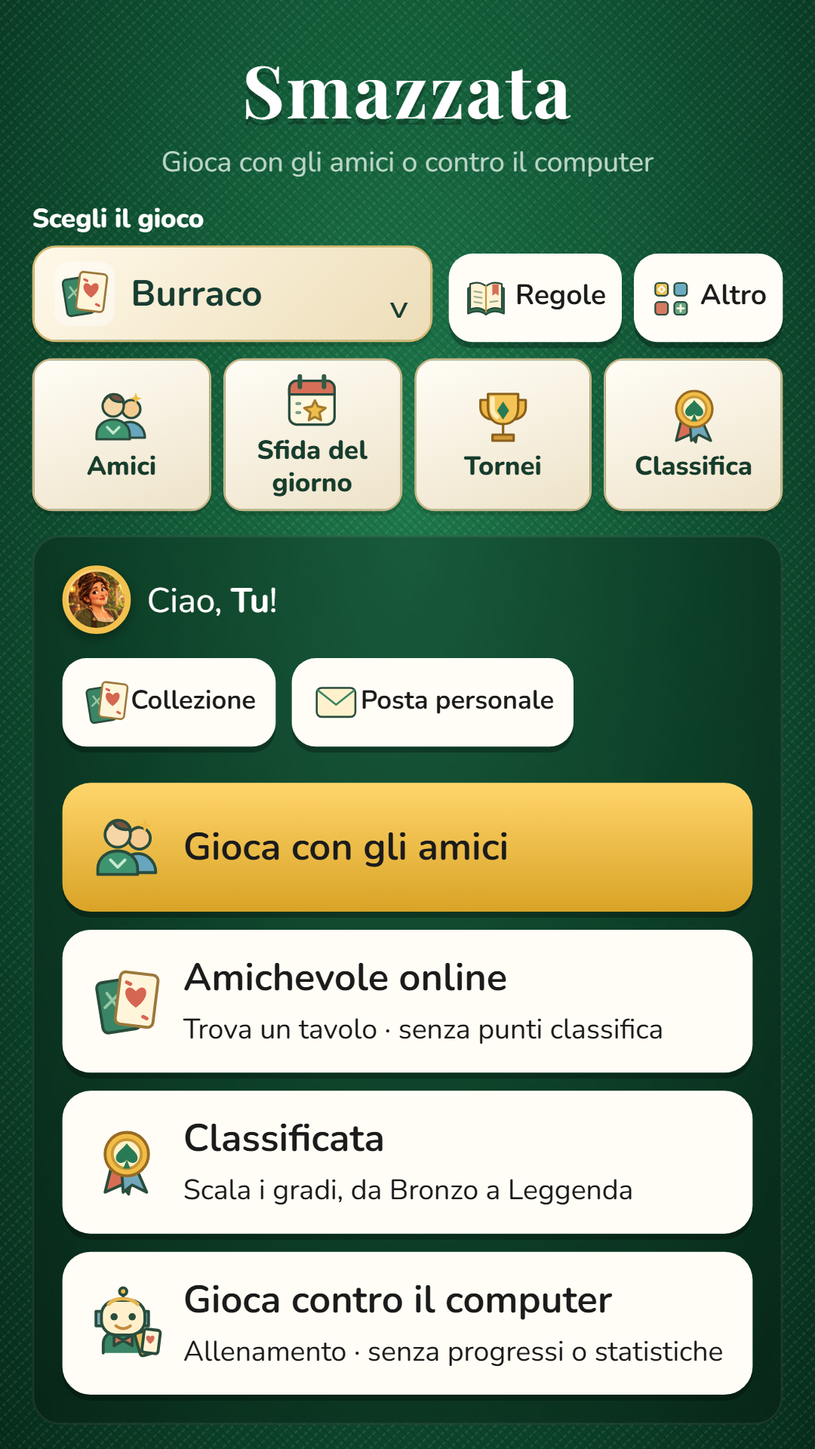
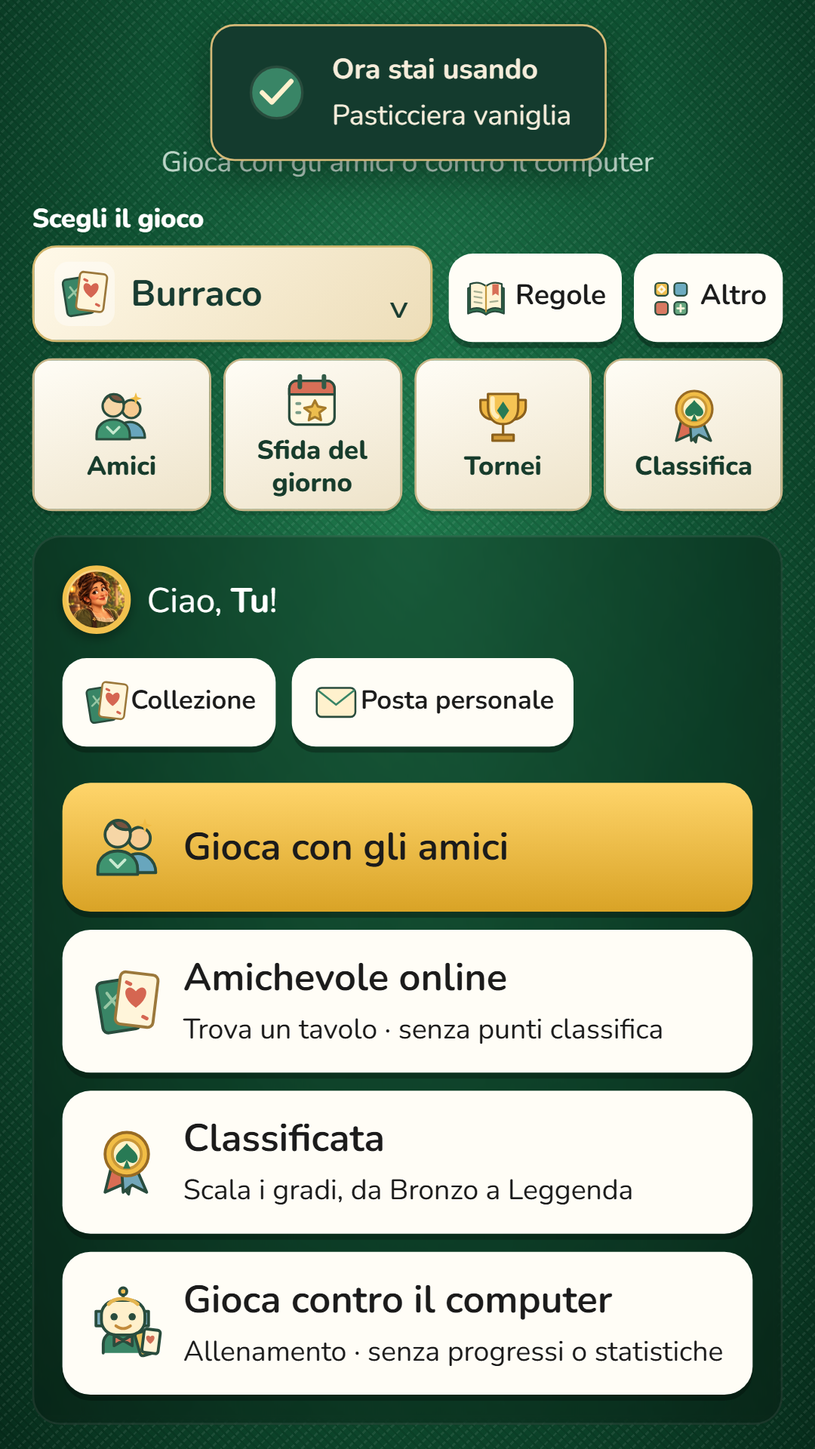
Rende affidabile l'inventario tra dispositivi e chiarisce le conferme

Changed region(s): [[0.2444, 0.0, 0.7639, 0.125]]

diff --git a/server/chest-uitest.js b/server/chest-uitest.js
@@ -8,6 +8,7 @@ const wait=ms=>new Promise(r=>setTimeout(r,ms));
  const root=fs.mkdtempSync(path.join(os.tmpdir(),'smazzata-chest-ui-')),dir=path.join(root,'data');fs.mkdirSync(dir);
  const key=crypto.randomBytes(18).toString('hex'),s={nick:'Collezionista',name:'Collezionista',cosmeticOwned:Cosmetics.LIST.filter(x=>x.id!==Cosmetics.LIST.find(a=>a.kind==='felt').id).map(x=>x.id),devices:[{h:crypto.createHash('sha256').update(key).digest('hex'),at:Date.now()}]};
  const p=new Map([['demo',s],['other',{nick:'Altro'}]]);
+ if(process.argv.includes('--first-use'))s.cosmeticOwned=Cosmetics.LIST.filter(x=>['back','frame'].includes(x.kind)&&x.rarity==='common').slice(0,2).map(x=>x.id);
  for(let i=0;i<3;i++)C.recordGame({chestGameId:String(i),seats:[{token:'demo'},{token:'other'}],progressEligible:true,game:{over:true,handResult:{reason:'close'}}},p,()=>{});
  s.chests.items=['common','rare','epic','legendary'].map((type,i)=>({id:String(i+1),type,version:1,at:Date.now()}));s.chests.issued=4;s.chests.fragments=2000;
  const deliveryContext={sessions:p};for(let i=0;i<23;i++)require('./deliveries').deliver(deliveryContext,'ui-mail-'+String(i).padStart(10,'0'),require('./deliveries').normalize({title:'Benvenuto '+i,body:'Un messaggio per la tua collezione.\nGrazie di giocare con noi!',mode:'all',gift:i===22?Cosmetics.LIST.find(x=>x.kind==='felt').id:''}),['demo'],()=>{});
@@ -23,9 +24,10 @@ const wait=ms=>new Promise(r=>setTimeout(r,ms));
   cdp.on(m=>{if(m.method==='Runtime.exceptionThrown'){const p=m.params;errors.push(p.exceptionDetails.exception?.description||p.exceptionDetails.text);}});
   await cdp.send('Runtime.enable');await cdp.send('Page.enable');
   await cdp.send('Page.addScriptToEvaluateOnNewDocument',{source:`localStorage.setItem('bur_token',${JSON.stringify(JSON.stringify(key))});localStorage.setItem('smazzata_intro_seen','true');localStorage.setItem('bur_prefs','{"anim":true,"lang":"it"}');`});
-  await cdp.send('Emulation.setDeviceMetricsOverride',{width:375,height:812,deviceScaleFactor:1,mobile:true});
+  await cdp.send('Emulation.setDeviceMetricsOverride',{width:process.argv.includes('--small')?320:375,height:812,deviceScaleFactor:1,mobile:true});
   await cdp.send('Page.navigate',{url:'http://localhost:3992'});await wait(1800);
   const shot=async name=>{await cdp.run('await document.fonts.ready;');const r=await cdp.send('Page.captureScreenshot',{format:'png'});fs.writeFileSync(path.join(out,name+'.png'),Buffer.from(r.data,'base64'));};
+  if(process.argv.includes('--first-use')){await require('./first-use-flow')(cdp,shot);assert.deepEqual(errors,[]);return;}
   await cdp.run(`if(Music.active!==null||S.prefs.music)throw Error('musica attiva senza scelta');settingsModal();if(!document.querySelector('[data-key=music][data-val=true]'))throw Error('comando musica assente');const range=document.querySelector('#musicVolume');if(!range||range.value!=='50')throw Error('volume iniziale errato');range.value='25';range.dispatchEvent(new Event('input',{bubbles:true}));if(Music.volume()!==25||store.get('bur_prefs',{}).musicVolume!==25||document.querySelector('#musicVolumeValue').textContent!=='25%')throw Error('volume non salvato');if(Music.active!==null)throw Error('regolare volume avvia musica spenta');settingsModal();if(document.querySelector('#musicVolume').value!=='25')throw Error('volume perso riaprendo impostazioni');`);
   await cdp.send('Runtime.evaluate',{expression:`S.prefs.music=true;applyPrefs();Music.sync(true);`,userGesture:true});await wait(400);
   await cdp.run(`if(Music.active!=='home'||Music.state!=='running')throw Error('tema home non avviato');if(!store.get('bur_prefs',{}).music)throw Error('scelta musica non salvata');await collectionModal('avatar');if(Music.active!=='collection')throw Error('tema collezione errato');await chestsModal();if(Music.active!=='loot')throw Error('tema bottino errato');S.prefs.music=false;applyPrefs();Music.sync();if(Music.active!==null)throw Error('musica non fermata');closeModal();const h=history.length;settingsModal();if(!window.smazzataBack()||S.modalKind)throw Error('Android back non chiude impostazioni');if(history.length!==h)throw Error('Android back modifica cronologia');await collectionModal('avatar');await handlers.collectionSelect({dataset:{id:'fante-quadri'}});if(!window.smazzataBack()||S.collectionInspect||S.modalKind!=='cosmetics')throw Error('Android back non torna al catalogo');closeModal();if(window.smazzataBack())throw Error('Home non restituita ad Android');`);
@@ -98,7 +100,7 @@ const wait=ms=>new Promise(r=>setTimeout(r,ms));
   await cdp.run(`S.connected=false;await cosmeticsModal('back');if(!document.querySelector('.collection-notice')||!document.querySelector('[data-act=collectionReset]').disabled)throw Error('stile modificabile offline');S.connected=true;`);
   await cdp.run(`S.connected=false;await handlers.pref({dataset:{key:'back',val:'rosso'}});if(document.body.classList.contains('cx-back'))throw Error('dorso base non disponibile offline');S.connected=true;cacheCosmetics((await emit('cosmetics')).cosmetics);`);
   await cdp.run(`const c=cosmeticState();store.set('bur_cosmetic_cache',{owner:'altro-profilo',data:c});applyCosmetics();if(cosmeticState().ownedIds.length||document.body.classList.contains('cx-back'))throw Error('inventario visibile ad altro profilo');cacheCosmetics(c);`);
-  await cdp.send('Emulation.setDeviceMetricsOverride',{width:375,height:812,deviceScaleFactor:1,mobile:true});
+  await cdp.send('Emulation.setDeviceMetricsOverride',{width:process.argv.includes('--small')?320:375,height:812,deviceScaleFactor:1,mobile:true});
   await cdp.send('Page.navigate',{url:'http://localhost:3992/stato/invii?k=ui-invii-prova-locale'});await wait(450);
   await cdp.run(`document.querySelector('[name=title]').value='Novità in arrivo';document.querySelector('[name=body]').value='La tua collezione ti aspetta.';document.querySelector('[name=nicks]').value='Collezionista';if(document.documentElement.scrollWidth>innerWidth)throw Error('pannello invii fuori schermo');`);await shot('invii-amministratore');
   await cdp.run(`document.querySelector('form').requestSubmit(document.querySelector('[name=action][value=draft]'));`);await wait(450);

diff --git a/server/inventory-year-test.js b/server/inventory-year-test.js
@@ -1,0 +1,43 @@
+'use strict';
+const test=require('node:test'),assert=require('node:assert/strict'),fs=require('node:fs'),os=require('node:os'),path=require('node:path'),crypto=require('node:crypto');
+const {spawn}=require('node:child_process'),{io}=require('socket.io-client'),C=require('./chests'),A=require('../shared/avatars'),Cos=require('../shared/cosmetics');
+test('Un anno di inventario: accumulo, due dispositivi, ricevute e riavvio',{timeout:180000},async()=>{
+ let seed=41711;const random=max=>{seed=(Math.imul(seed,1664525)+1013904223)>>>0;return Math.floor(seed/4294967296*max);};
+ const keys=[crypto.randomBytes(18).toString('hex'),crypto.randomBytes(18).toString('hex')],start=Date.parse('2025-10-24T12:00:00Z');
+ const s={nick:'Inventario_Anno',name:'Inventario_Anno',friends:['peer'],devices:keys.map(k=>({h:crypto.createHash('sha256').update(k).digest('hex'),at:Date.now()}))},peer={nick:'Compagno',friends:['year']};
+ const sessions=new Map([['year',s],['peer',peer]]);let opened=0;
+ for(let day=0;day<365;day++){
+  const now=start+day*86400000;
+  for(let n=0;n<6;n++)C.recordGame({chestGameId:`year-${day}-${n}`,progressEligible:true,rules:{game:['burraco','scala40','ramino','canasta'][n%4]},seats:[{token:'year'},{token:'peer'}],game:{over:true,handResult:{reason:'close'}}},sessions,()=>{},now,random);
+  const pending=C.view(s,now).pending;if(day%2===0&&pending.length){C.open(s,pending[0].id,()=>{},random,now);opened++;}
+  if(day%30===0){const restored=JSON.parse(JSON.stringify(s));assert.deepEqual(C.view(restored,now),C.view(s,now));assert.deepEqual(C.collection(restored),C.collection(s));}
+ }
+ const yearView=C.view(s),owned=[...A.ownedIds(s),...Cos.ownedIds(s)],receipts=s.chests.items.filter(x=>x.reward).map(x=>[x.id,x.reward]);
+ assert(yearView.pending.length>500);assert.equal(receipts.length,opened);assert.equal(new Set(s.chests.items.map(x=>x.id)).size,s.chests.items.length);
+ const dir=fs.mkdtempSync(path.join(os.tmpdir(),'smazzata-year-'));
+ fs.writeFileSync(path.join(dir,'stato.json'),JSON.stringify({accountsEpoch:3,progressEpoch:1,sessions:[...sessions],leaderboard:[],rooms:[],leagues:[],tournaments:[],daily:[]}));
+ let proc;const sockets=[];
+ const startServer=()=>new Promise((resolve,reject)=>{proc=spawn(process.execPath,[path.join(__dirname,'index.js')],{env:{...process.env,PORT:'3987',DATA_DIR:dir},stdio:['ignore','pipe','pipe']});const timer=setTimeout(()=>reject(Error('avvio server lento')),15000);proc.once('error',reject);proc.stdout.on('data',d=>{if(String(d).includes('ascolto')){clearTimeout(timer);resolve();}});});
+ const stop=async()=>{for(const sock of sockets)sock.disconnect();if(proc&&proc.exitCode===null){const ended=new Promise(r=>proc.once('exit',r));proc.kill();await ended;}};
+ const client=async key=>{const sock=io('http://127.0.0.1:3987',{transports:['websocket'],forceNew:true,reconnection:false});sockets.push(sock);await new Promise((r,j)=>{sock.once('connect',r);sock.once('connect_error',j);});await new Promise(r=>{sock.once('welcome',r);sock.emit('hello',{token:key,name:'Prova'});});return {sock,call:(event,data={})=>new Promise((r,j)=>sock.timeout(8000).emit(event,data,(e,a)=>e?j(e):r(a)))};};
+ try{
+  await startServer();const a=await client(keys[0]),b=await client(keys[1]);
+  assert.deepEqual((await a.call('chests')).chests,(await b.call('chests')).chests);
+  const one=yearView.pending[0].id,[r1,r2]=await Promise.all([a.call('openChest',{id:one}),b.call('openChest',{id:one})]);assert(r1.ok&&r2.ok);assert.deepEqual(r1.reward,r2.reward);
+  let view=(await b.call('chests')).chests;assert.equal(view.pending.length,yearView.pending.length-1);
+  const oldFragments=view.fragments,ids=view.pending.slice(0,2).map(x=>x.id),results=await Promise.all([a.call('openChest',{id:ids[0]}),b.call('openChest',{id:ids[1]})]);assert(results.every(x=>x.ok));
+  view=(await a.call('chests')).chests;assert.equal(view.fragments,oldFragments+results.reduce((n,r)=>n+r.reward.fragments,0));
+  const rarity=Object.keys(view.missing).find(r=>view.missing[r]>0&&view.fragments>=C.RULES.costs[r]);let exchange;
+  if(rarity){const requestId=crypto.randomUUID(),both=await Promise.all([a.call('exchangeChestFragments',{rarity,requestId}),b.call('exchangeChestFragments',{rarity,requestId})]);assert(both.every(x=>x.ok));assert.deepEqual(both[0].reward,both[1].reward);assert.equal((await b.call('chests')).chests.fragments,view.fragments-C.RULES.costs[rarity]);exchange={rarity,requestId,reward:both[0].reward};}
+  // Il primo dispositivo perde la conferma, il secondo verifica il salvataggio.
+  const lostId=(await a.call('chests')).chests.pending[0].id;a.sock.emit('openChest',{id:lostId});
+  let saved;for(let n=0;n<30&&!saved;n++){const state=(await b.call('chests')).chests;if(!state.pending.some(x=>x.id===lostId))saved=state;else await new Promise(r=>setTimeout(r,20));}assert(saved);a.sock.disconnect();
+  const recovered=await b.call('openChest',{id:lostId});assert(recovered.ok);assert.equal(recovered.chests.pending.length,saved.pending.length);
+  const profile=(await b.call('profile')),newOwned=new Set([...profile.ownedAvatarIds,...profile.cosmetics.ownedIds]);assert(owned.every(id=>newOwned.has(id)));
+  for(const [id,reward] of receipts){assert.deepEqual((await b.call('openChest',{id})).reward,reward);}
+  const before=(await b.call('chests')).chests;await stop();await startServer();const restored=await client(keys[0]);assert.deepEqual((await restored.call('chests')).chests,before);assert.deepEqual((await restored.call('openChest',{id:one})).reward,r1.reward);assert.deepEqual((await restored.call('openChest',{id:lostId})).reward,recovered.reward);
+  if(exchange)assert.deepEqual((await restored.call('exchangeChestFragments',exchange)).reward,exchange.reward);
+  const guest=await client();assert.equal((await guest.call('openChest',{id:one})).ok,false);
+  console.log(JSON.stringify({days:365,matches:2190,issued:s.chests.items.length,opened,unopened:yearView.pending.length,receiptsReplayed:receipts.length,devices:2}));
+ }finally{await stop();}
+});

diff --git a/server/connection-feedback-test.js b/server/connection-feedback-test.js
@@ -1,0 +1,41 @@
+'use strict';
+const test=require('node:test'),assert=require('node:assert/strict'),fs=require('node:fs'),vm=require('node:vm');
+test('Riconnessione: conferma solo dopo lo stato, inventario riletto e locale indipendente',()=>{
+ const callbacks={},events=[],S={connected:false,syncPending:true,lostConnection:true,prefs:{},modalKind:'chests'};
+ const c=vm.createContext({S,OFFLINE:false,LANG:'it',pendingRequests:new Set(),socket:{on:(e,f)=>callbacks[e]=f,emit:e=>events.push(e)},toast:m=>events.push(m),render:()=>events.push('render'),onState:()=>events.push('stato'),hideIntro:()=>{},t:x=>x,chestsModal:()=>events.push('chests'),collectionModal:()=>events.push('collection')});
+ const s=fs.readFileSync(require.resolve('../public/js/connessione.js'),'utf8');
+ vm.runInContext(s.slice(s.indexOf("  socket.on('connect'"),s.indexOf('  // Tornando')),c);
+ vm.runInContext(s.slice(s.indexOf("  socket.on('state'"),s.indexOf('  /* ---------- Intro')),c);
+ callbacks.connect();assert.equal(S.connected,true);assert.equal(S.syncPending,true);assert.equal(S.lostConnection,true);assert.deepEqual(events,['hello']);
+ callbacks.state({room:null,game:null});assert.equal(S.syncPending,false);assert.equal(S.lostConnection,false);assert.deepEqual(events,['hello','stato','Sei di nuovo collegato.','chests']);
+ callbacks.disconnect();callbacks.connect();S.modalKind='cosmetics';callbacks.state({room:null,game:null});assert.equal(events.at(-1),'collection');
+ S.localGame=true;S.syncPending=true;S.lostConnection=true;callbacks.state({room:null,game:null});assert.equal(S.syncPending,true);assert.equal(S.lostConnection,true);
+});
+test('Equipaggiamento: conferma dopo il salvataggio, mai su rifiuto o cambio profilo',async()=>{
+ const item={id:'dama-fiori',kind:'avatar',name:'Dama di fiori'},S={token:'a',collectionOnline:true,collectionData:{profile:{avatar:{},colors:['#fff']}}},confirmations=[];let resolve;
+ const c=vm.createContext({S,collectionItems:()=>[item],collectionOwned:()=>new Set([item.id]),emit:()=>new Promise(r=>resolve=r),renderCollection:()=>{},confirmEquipped:x=>confirmations.push(x.id)});
+ const source=fs.readFileSync(require.resolve('../public/js/collection.js'),'utf8'),start=source.indexOf('  async collectionEquip(el)'),end=source.indexOf('  async collectionReset',start);
+ vm.runInContext('globalThis.equip=({'+source.slice(start,end)+'}).collectionEquip;',c);
+ const button={dataset:{id:item.id},disabled:false};let pending=c.equip(button);assert.equal(confirmations.length,0);resolve({ok:false});await pending;assert.equal(confirmations.length,0);assert.equal(button.disabled,false);
+ pending=c.equip(button);resolve({ok:true,avatar:{id:item.id}});await pending;assert.deepEqual(confirmations,[item.id]);
+ pending=c.equip(button);S.token='b';resolve({ok:true,avatar:{id:item.id}});await pending;assert.equal(confirmations.length,1);
+});
+test('Avatar: errore disco annulla la modifica e gli avvisi restano privati',()=>{
+ const ctx=require('./contesto'),oldSave=ctx.saveNow,handlers={},events=[];
+ const owner={data:{token:'x'},handshake:{address:'prova'},on:(e,f)=>handlers[e]=f,emit:(e)=>events.push(['owner',e])};
+ const peer={data:{token:'x'},emit:e=>events.push(['peer',e])},stranger={data:{token:'y'},emit:e=>events.push(['stranger',e])};
+ const s={nick:'Prova',friends:[],reqIn:[],reqOut:[],blocked:[]};
+ const social=require('./social')({io:{sockets:{sockets:new Map([['owner',owner],['peer',peer],['stranger',stranger]])}},sessions:new Map([['x',s]]),isConnected:()=>true,roomOfToken:()=>null,renamePlayer:()=>{},onDelete:()=>{},onDeleted:()=>{}});
+ social.register(owner,f=>f);
+ try{
+  ctx.saveNow=()=>{throw Error('disco pieno');};assert.throws(()=>handlers.setAvatar({id:'dama-fiori',c:'#64b5f6'}));assert.equal(s.avatar,undefined);assert.equal(s.avatarOwned,undefined);assert.equal(s.avatarInventoryVersion,undefined);assert.equal(events.length,0);
+  ctx.saveNow=()=>{};assert.equal(handlers.setAvatar({id:'dama-fiori',c:'#64b5f6'}).avatar.id,'dama-fiori');
+  assert(events.some(([who,e])=>who==='peer'&&e==='inventoryChanged'));assert(!events.some(([who])=>who==='stranger'));
+ }finally{ctx.saveNow=oldSave;}
+});
+test('Un aggiornamento tardivo non riapre il bottino chiuso dall’utente',async()=>{
+ let resolve,opened=0;const S={token:'a',connected:true,modalKind:'chests'};
+ const c=vm.createContext({S,OFFLINE:false,emit:()=>new Promise(r=>resolve=r),cacheChestState:()=>{},openModal:()=>opened++,store:{get:()=>null}});
+ const s=fs.readFileSync(require.resolve('../public/js/chests.js'),'utf8');vm.runInContext(s.slice(s.indexOf('async function chestsModal'),s.indexOf('function chestReveal')),c);
+ const pending=c.chestsModal(true);S.modalKind=null;resolve({ok:true,chests:{}});await pending;assert.equal(opened,0);
+});

diff --git a/server/first-use-flow.js b/server/first-use-flow.js
@@ -1,0 +1,42 @@
+'use strict';
+// Percorsi mediante click sulle etichette visibili, senza chiamare gli handler interni.
+module.exports=async(cdp,shot)=>{
+ let clicks=0;
+ const wait=async expression=>cdp.run(`for(let i=0;i<120;i++){if(${expression})return;await new Promise(r=>setTimeout(r,50));}throw Error('Attesa percorso: '+${JSON.stringify(expression)});`);
+ const click=async selector=>{
+  await wait(`document.querySelector(${JSON.stringify(selector)})&&!document.querySelector(${JSON.stringify(selector)}).disabled`);
+  const pos=await cdp.run(`const el=document.querySelector(${JSON.stringify(selector)});el.scrollIntoView({block:'center'});const r=el.getBoundingClientRect();if(!r.width||!r.height)throw Error('Controllo non visibile');return {x:r.x+r.width/2,y:r.y+r.height/2};`);
+  await cdp.send('Input.dispatchMouseEvent',{type:'mousePressed',...pos,button:'left',clickCount:1});
+  await cdp.send('Input.dispatchMouseEvent',{type:'mouseReleased',...pos,button:'left',clickCount:1});
+  clicks++;
+ };
+ await wait(`!document.querySelector('#intro')||getComputedStyle(document.querySelector('#intro')).display==='none'||document.querySelector('#intro').classList.contains('out')`);
+ await click('#app [data-act=collection]');await wait(`document.querySelector('.collection-card')`);
+ await cdp.run(`if(document.querySelector('.collection-filters').open)throw Error('Filtri avanzati aperti');if(document.querySelectorAll('.collection-categories>button').length!==6)throw Error('Categorie mancanti');`);
+ await click('.collection-card[data-id="dama-fiori"]');await click('[data-act=collectionEquip]');
+ await wait(`document.querySelector('.equip-confirmation')?.textContent.includes('Dama di fiori')`);
+ await shot('primo-uso-equipaggiato');
+ await click('.collection-mainnav [data-act=chests]');await wait(`document.querySelector('.chest-open-button')`);
+ await cdp.run(`if(document.querySelector('.modal-content').textContent.includes('%'))throw Error('Percentuali nel percorso semplice');if([...document.querySelectorAll('.loot-secondary')].some(x=>x.open))throw Error('Dettagli aperti');`);
+ await click('.chest-open-button');await wait(`document.querySelector('[data-act=firstChestOpen]')`);await click('[data-act=firstChestOpen]');
+ await wait(`document.querySelector('.chest-prize')&&!document.querySelector('.chest-prize').hidden`);
+ await click('[data-act=chestEquip]');await wait(`document.querySelector('.simple-loot')&&document.querySelector('.equip-confirmation')`);
+ await shot('primo-uso-bottino');
+ await cdp.run(`const peer=io({forceNew:true});try{await new Promise(r=>{peer.once('welcome',r);peer.on('connect',()=>peer.emit('hello',{token:S.token,name:S.name}));});const call=(ev,data={})=>new Promise(r=>peer.emit(ev,data,r));const before=await call('chests');const id=before.chests.pending[0].id;const reward=await call('openChest',{id});if(!reward.ok)throw Error('apertura altro dispositivo fallita');}finally{peer.disconnect();}`);
+ await wait(`document.querySelector('.collection-mainnav [data-act=chests] b')?.textContent==='2'`);
+
+ // Interrompi il trasporto vero: la pagina deve aspettare lo stato, non solo il socket.
+ await cdp.send('Network.enable');await cdp.send('Network.emulateNetworkConditions',{offline:true,latency:0,downloadThroughput:0,uploadThroughput:0});
+ await cdp.run(`window.dispatchEvent(new Event('offline'));`);
+ await wait(`document.querySelector('.offline')?.textContent.includes('Ti stiamo ricollegando')`);
+ await shot('primo-uso-riconnessione');
+ await cdp.send('Network.emulateNetworkConditions',{offline:false,latency:0,downloadThroughput:-1,uploadThroughput:-1});
+ await cdp.run(`window.dispatchEvent(new Event('online'));`);
+ await wait(`!document.querySelector('.offline')&&document.querySelector('.simple-loot')`);
+ await cdp.run(`if(document.querySelectorAll('.inventory-chest').length<1)throw Error('Inventario non ripristinato');`);
+ await click('.modal-close');await wait(`document.querySelector('#modal').classList.contains('hidden')`);
+ await click('#app [data-act=playBots]');await wait(`document.querySelector('[data-act=createBots]')`);await click('[data-act=createBots]');await wait(`document.querySelector('#hand .card')`);
+ await shot('primo-uso-partita');
+ console.log('Percorsi UI OK: Collezione → usa avatar → Bottino → prima chest → usa premio → riconnessione → avvio partita; click sui controlli visibili. Non è una prova con persone reali.');
+ console.log(JSON.stringify({visibleClicks:clicks,viewport:await cdp.run('return innerWidth;')}));
+};

diff --git a/launcher/sw.js b/launcher/sw.js
@@ -1,7 +1,7 @@
 // Service worker della pagina d'ingresso: salva la pagina e la copia del gioco (cartella gioca/)
 // così, senza internet, l'app si apre lo stesso e si può giocare contro il computer.
 // "Prima la rete": da collegati si usa sempre la versione più recente.
-const CACHE = 'burraco-ingresso-v75';
+const CACHE = 'burraco-ingresso-v76';
 const SHELL = [
   'gioca/js/collection.js', 'gioca/collection.css', 'gioca/shared/cosmetics.js', 'gioca/js/cosmetics.js', 'gioca/cosmetics.css', 'gioca/art/cosmetics/back/trama-rubino.webp', 'gioca/art/cosmetics/back/picche-del-bosco.webp', 'gioca/art/cosmetics/back/fiordaliso.webp', 'gioca/art/cosmetics/back/filo-di-rame.webp', 'gioca/art/cosmetics/back/vento-marino.webp', 'gioca/art/cosmetics/back/lavanda.webp', 'gioca/art/cosmetics/back/geometrie-salvia.webp', 'gioca/art/cosmetics/back/righe-del-mazziere.webp', 'gioca/art/cosmetics/back/mosaico-terracotta.webp', 'gioca/art/cosmetics/back/foglie-d-autunno.webp', 'gioca/art/cosmetics/back/rosa-dei-venti.webp', 'gioca/art/cosmetics/back/vetri-di-murano.webp', 'gioca/art/cosmetics/back/piuma-di-pavone.webp', 'gioca/art/cosmetics/back/orologio-lunare.webp', 'gioca/art/cosmetics/back/giardino-d-inverno.webp', 'gioca/art/cosmetics/back/scaglie-d-ambra.webp', 'gioca/art/cosmetics/back/biblioteca-arcana.webp', 'gioca/art/cosmetics/back/cometa-di-cristallo.webp', 'gioca/art/cosmetics/back/drago-d-ossidiana.webp', 'gioca/art/cosmetics/back/sigillo-dell-aurora.webp', 'gioca/art/cosmetics/felt/panno-foresta.webp', 'gioca/art/cosmetics/felt/velluto-blu-notte.webp', 'gioca/art/cosmetics/felt/cotone-bordeaux.webp', 'gioca/art/cosmetics/felt/ardesia-soffice.webp', 'gioca/art/cosmetics/felt/tessuto-petrolio.webp', 'gioca/art/cosmetics/felt/muschio.webp', 'gioca/art/cosmetics/felt/zaffiro-fume.webp', 'gioca/art/cosmetics/felt/crepuscolo-viola.webp', 'gioca/art/cosmetics/felt/sabbia-d-ulivo.webp', 'gioca/art/cosmetics/felt/terracotta-scura.webp', 'gioca/art/cosmetics/felt/salotto-veneziano.webp', 'gioca/art/cosmetics/felt/serra-al-tramonto.webp', 'gioca/art/cosmetics/felt/salone-d-ambra.webp', 'gioca/art/cosmetics/felt/osservatorio.webp', 'gioca/art/cosmetics/felt/riva-notturna.webp', 'gioca/art/cosmetics/felt/biblioteca-di-noce.webp', 'gioca/art/cosmetics/felt/santuario-di-giada.webp', 'gioca/art/cosmetics/felt/palazzo-delle-nuvole.webp', 'gioca/art/cosmetics/felt/forgia-celeste.webp', 'gioca/art/cosmetics/felt/giardino-dell-eternita.webp', 'gioca/art/cosmetics/reaction/orso-applaude.webp', 'gioca/art/cosmetics/reaction/volpe-saluta.webp', 'gioca/art/cosmetics/reaction/gatto-ringrazia.webp', 'gioca/art/cosmetics/reaction/coniglio-sorpreso.webp', 'gioca/art/cosmetics/reaction/gufo-riflette.webp', 'gioca/art/cosmetics/reaction/lontra-ride.webp', 'gioca/art/cosmetics/reaction/riccio-incoraggia.webp', 'gioca/art/cosmetics/reaction/pinguino-approva.webp', 'gioca/art/cosmetics/reaction/panda-rosso-abbraccia.webp', 'gioca/art/cosmetics/reaction/tartaruga-aspetta.webp', 'gioca/art/cosmetics/reaction/leone-si-inchina.webp', 'gioca/art/cosmetics/reaction/prestigiatore-festeggia.webp', 'gioca/art/cosmetics/reaction/gufo-meravigliato.webp', 'gioca/art/cosmetics/reaction/lupo-ammicca.webp', 'gioca/art/cosmetics/reaction/pavone-elegante.webp', 'gioca/art/cosmetics/reaction/alchimista-brillante.webp', 'gioca/art/cosmetics/reaction/grifone-esulta.webp', 'gioca/art/cosmetics/reaction/unicorno-incanta.webp', 'gioca/art/cosmetics/reaction/gatto-stregone-trionfa.webp', 'gioca/art/cosmetics/reaction/fenice-celebra.webp',
   'gioca/art/chests/chest-opening.webp', 'gioca/art/chests/chest-rare.webp', 'gioca/art/chests/chest-epic.webp', 'gioca/art/chests/chest-legendary.webp', 'gioca/js/chests.js',

diff --git a/public/sw.js b/public/sw.js
@@ -1,7 +1,7 @@
 // Service worker: notifiche e copia del gioco per giocare anche senza internet.
 // "Prima la rete": da collegati si usa sempre la versione più recente (e se ne salva una copia);
 // senza rete si usa l'ultima copia salvata. La connessione di gioco (socket.io) non passa mai dalla copia.
-const CACHE = 'burraco-gioco-v75';
+const CACHE = 'burraco-gioco-v76';
 const SHELL = [
   'js/collection.js', 'collection.css', 'shared/cosmetics.js', 'js/cosmetics.js', 'cosmetics.css', 'art/cosmetics/back/trama-rubino.webp', 'art/cosmetics/back/picche-del-bosco.webp', 'art/cosmetics/back/fiordaliso.webp', 'art/cosmetics/back/filo-di-rame.webp', 'art/cosmetics/back/vento-marino.webp', 'art/cosmetics/back/lavanda.webp', 'art/cosmetics/back/geometrie-salvia.webp', 'art/cosmetics/back/righe-del-mazziere.webp', 'art/cosmetics/back/mosaico-terracotta.webp', 'art/cosmetics/back/foglie-d-autunno.webp', 'art/cosmetics/back/rosa-dei-venti.webp', 'art/cosmetics/back/vetri-di-murano.webp', 'art/cosmetics/back/piuma-di-pavone.webp', 'art/cosmetics/back/orologio-lunare.webp', 'art/cosmetics/back/giardino-d-inverno.webp', 'art/cosmetics/back/scaglie-d-ambra.webp', 'art/cosmetics/back/biblioteca-arcana.webp', 'art/cosmetics/back/cometa-di-cristallo.webp', 'art/cosmetics/back/drago-d-ossidiana.webp', 'art/cosmetics/back/sigillo-dell-aurora.webp', 'art/cosmetics/felt/panno-foresta.webp', 'art/cosmetics/felt/velluto-blu-notte.webp', 'art/cosmetics/felt/cotone-bordeaux.webp', 'art/cosmetics/felt/ardesia-soffice.webp', 'art/cosmetics/felt/tessuto-petrolio.webp', 'art/cosmetics/felt/muschio.webp', 'art/cosmetics/felt/zaffiro-fume.webp', 'art/cosmetics/felt/crepuscolo-viola.webp', 'art/cosmetics/felt/sabbia-d-ulivo.webp', 'art/cosmetics/felt/terracotta-scura.webp', 'art/cosmetics/felt/salotto-veneziano.webp', 'art/cosmetics/felt/serra-al-tramonto.webp', 'art/cosmetics/felt/salone-d-ambra.webp', 'art/cosmetics/felt/osservatorio.webp', 'art/cosmetics/felt/riva-notturna.webp', 'art/cosmetics/felt/biblioteca-di-noce.webp', 'art/cosmetics/felt/santuario-di-giada.webp', 'art/cosmetics/felt/palazzo-delle-nuvole.webp', 'art/cosmetics/felt/forgia-celeste.webp', 'art/cosmetics/felt/giardino-dell-eternita.webp', 'art/cosmetics/reaction/orso-applaude.webp', 'art/cosmetics/reaction/volpe-saluta.webp', 'art/cosmetics/reaction/gatto-ringrazia.webp', 'art/cosmetics/reaction/coniglio-sorpreso.webp', 'art/cosmetics/reaction/gufo-riflette.webp', 'art/cosmetics/reaction/lontra-ride.webp', 'art/cosmetics/reaction/riccio-incoraggia.webp', 'art/cosmetics/reaction/pinguino-approva.webp', 'art/cosmetics/reaction/panda-rosso-abbraccia.webp', 'art/cosmetics/reaction/tartaruga-aspetta.webp', 'art/cosmetics/reaction/leone-si-inchina.webp', 'art/cosmetics/reaction/prestigiatore-festeggia.webp', 'art/cosmetics/reaction/gufo-meravigliato.webp', 'art/cosmetics/reaction/lupo-ammicca.webp', 'art/cosmetics/reaction/pavone-elegante.webp', 'art/cosmetics/reaction/alchimista-brillante.webp', 'art/cosmetics/reaction/grifone-esulta.webp', 'art/cosmetics/reaction/unicorno-incanta.webp', 'art/cosmetics/reaction/gatto-stregone-trionfa.webp', 'art/cosmetics/reaction/fenice-celebra.webp',
   'art/chests/chest-opening.webp', 'art/chests/chest-rare.webp', 'art/chests/chest-epic.webp', 'art/chests/chest-legendary.webp', 'js/chests.js',

diff --git a/server/social.js b/server/social.js
@@ -331,6 +331,9 @@ module.exports = function createSocial({ io, sessions, isConnected, roomOfToken,
   }
   function register(socket, handler) {
     const me = () => socket.data.token || fail('Sessione non valida');
+    const inventoryChanged = () => {
+      for(const other of io.sockets.sockets.values())if(other!==socket&&other.data.token===me())other.emit('inventoryChanged');
+    };
     const ip = socket.handshake.address || 'ip';
 
     socket.on('checkNick', handler(({ nick }) => checkNick(nick, socket.data.token)));
@@ -375,13 +378,16 @@ module.exports = function createSocial({ io, sessions, isConnected, roomOfToken,
       // Le scelte già salvate restano utilizzabili; cambiarne lo sfondo non assegna un nuovo avatar.
       const owned = Avatars.ownedIds(s);
       if (!owned.includes(avatar.id)) fail('Questo avatar non è ancora disponibile');
+      const before={avatarOwned:s.avatarOwned,avatarInventoryVersion:s.avatarInventoryVersion,avatar:s.avatar};
       s.avatarOwned = owned;
       s.avatarInventoryVersion = 1;
       // e è la rappresentazione di compatibilità per i client precedenti; id identifica l'illustrazione.
       s.avatar = { ...(s.avatar || {}), id:avatar.id, e:avatar.e, c };
+      try{require('./contesto').saveNow(true,false);}catch(error){for(const [key,value] of Object.entries(before)){if(value===undefined)delete s[key];else s[key]=value;}throw error;}
       renamePlayer(token, null);
       push(token);
       pushFriends(token);
+      inventoryChanged();
       return { avatar: s.avatar };
     }));
 
@@ -406,15 +412,16 @@ module.exports = function createSocial({ io, sessions, isConnected, roomOfToken,
       try{require('./contesto').saveNow(true,false);}catch(e){if(before===undefined)delete s.cosmeticLoadout;else s.cosmeticLoadout=before;if(avatar===undefined)delete s.avatar;else s.avatar=avatar;throw e;}
       if(['frame','felt','back'].includes(kind))renamePlayer(token,null);
       if(kind==='frame'){push(token);pushFriends(token);}
+      inventoryChanged();
       return {cosmetics:Chests.collection(s),avatar:s.avatar};
     }));
     socket.on('openChest', handler(({id}) => {
       const s=sess(me());if(!s.nick)fail('Scegli prima il tuo nickname');
-      return Chests.open(s,String(id||''),()=>require('./contesto').saveNow(true,false));
+      const result=Chests.open(s,String(id||''),()=>require('./contesto').saveNow(true,false));inventoryChanged();return result;
     }));
     socket.on('exchangeChestFragments', handler(({rarity,requestId}) => {
       const s=sess(me());if(!s.nick)fail('Scegli prima il tuo nickname');
-      return Chests.exchange(s,rarity,requestId,()=>require('./contesto').saveNow(true,false));
+      const result=Chests.exchange(s,rarity,requestId,()=>require('./contesto').saveNow(true,false));inventoryChanged();return result;
     }));
 
     socket.on('setLook', handler(({ title, frame }) => {

diff --git a/public/js/collection.js b/public/js/collection.js
@@ -12,13 +12,14 @@ function collectionOwned(){const p=S.collectionData?.owner===S.token?S.collectio
 function collectionEquipped(item){return item.kind==='avatar'?S.collectionData?.owner===S.token&&S.collectionData.profile?.avatar?.id===item.id:cosmeticState().loadout[item.kind]===item.id;}
 function collectionArt(item){return item.kind==='avatar'?window.SmazzataAvatars.svg(item.id):cosmeticArt(item);}
 function collectionNewIds(){return new Set(cosmeticState().meta?.newIds||[]);}
-async function collectionModal(kind){
+async function collectionModal(kind,refreshOnly=false){
   const owner=S.token;
   if(S.collectionOwner!==owner){S.collectionOwner=owner;S.collectionData=null;S.collectionCategory='avatar';S.collectionRarity='all';S.collectionOnlyOwned=true;S.collectionQuery='';S.collectionSelected=null;S.collectionInspect=false;S.collectionSort='recent';S.collectionOnlyNew=false;S.collectionFiltersOpen=false;}
   if(collectionCategories().some(x=>x.id===kind)){S.collectionCategory=kind;S.collectionSelected=null;S.collectionInspect=false;}
   S.collectionOnline=false;
   if(!OFFLINE&&S.connected){const r=await emit('profile');if(owner!==S.token)return;if(r.ok){S.collectionData={owner,profile:r};S.collectionOnline=true;cacheCosmetics(r.cosmetics);cacheChestState(r.chests);S.chestState=r.chests;}}
   if(owner!==S.token)return;
+  if(refreshOnly===true&&S.modalKind!=='cosmetics')return;
   renderCollection();
 }
 function renderCollection(){
@@ -58,7 +59,7 @@ Object.assign(handlers,{
   async collectionEquip(el){
     const item=collectionItems().find(x=>x.id===el.dataset.id);if(!item||!collectionOwned().has(item.id)||!S.collectionOnline||S.collectionBusy)return;
     const owner=S.token;S.collectionBusy=true;el.disabled=true;
-    try{let ok;if(item.kind==='avatar'){const p=S.collectionData.profile,r=await emit('setAvatar',{id:item.id,c:p.avatar?.c||p.colors?.[0]||'#f2c14e'});if(owner!==S.token)return;ok=r.ok;if(ok)p.avatar=r.avatar;}else ok=await equipCosmetic(item.kind,item.id);if(owner===S.token&&ok){S.collectionSelected=item.id;renderCollection();}else if(owner===S.token)el.disabled=false;}finally{S.collectionBusy=false;}
+    try{let ok;if(item.kind==='avatar'){const p=S.collectionData.profile,r=await emit('setAvatar',{id:item.id,c:p.avatar?.c||p.colors?.[0]||'#f2c14e'});if(owner!==S.token)return;ok=r.ok;if(ok)p.avatar=r.avatar;}else ok=await equipCosmetic(item.kind,item.id);if(owner===S.token&&ok){S.collectionSelected=item.id;renderCollection();confirmEquipped(item);}else if(owner===S.token)el.disabled=false;}finally{S.collectionBusy=false;}
   },
   async collectionReset(el){if(await equipCosmetic(el.dataset.kind,null))renderCollection();}
 });

diff --git a/public/js/chests.js b/public/js/chests.js
@@ -7,11 +7,12 @@ function chestRequest() {
   const r=store.get('bur_chest_request',null);
   return r?.owner===S.token?r:null;
 }
-async function chestsModal() {
+async function chestsModal(refreshOnly=false) {
   const owner=S.token;let data,online=false;
   if(!OFFLINE&&S.connected){const r=await emit('chests');if(owner!==S.token)return;if(r.ok){data=r.chests;online=true;cacheChestState(data);}}
   if(!data){const cached=store.get('bur_chest_cache',null);if(cached?.owner===S.token)data=cached.data;}
   if(owner!==S.token)return;
+  if(refreshOnly===true&&S.modalKind!=='chests')return;
   if(!data){toast(t('Collegati per consultare le tue chest'),true);return;}
   S.chestState=data;S.chestReadOnly=!online;
   const rules=data.rules,request=chestRequest(),disabled=!online||!!request,rarities=window.SmazzataAvatars.RARITIES;
@@ -77,10 +78,11 @@ Object.assign(handlers,{
     root.querySelector('.chest-prize [data-act=chestEquip]')?.focus({preventScroll:true});
   },
   async chestEquip(el){
-    if(el.dataset.kind!=='avatar'){if(await equipCosmetic(el.dataset.kind,el.dataset.itemId)){toast(t('Equipaggiato'));await chestsModal();}return;}
-    const p=await emit('profile');if(!p.ok)return;
+    const owner=S.token,item=collectionItems().find(x=>x.id===el.dataset.itemId);
+    if(el.dataset.kind!=='avatar'){if(await equipCosmetic(el.dataset.kind,el.dataset.itemId)&&owner===S.token){confirmEquipped(item);await chestsModal();}return;}
+    const p=await emit('profile');if(owner!==S.token||!p.ok)return;
     const r=await emit('setAvatar',{id:el.dataset.itemId,c:p.avatar?.c||p.colors[0]});
-    if(r.ok){toast(t('Equipaggiato'));await chestsModal();}
+    if(owner===S.token&&r.ok){confirmEquipped(item);await chestsModal();}
   }
 });
 socket.on('chests',data=>{

diff --git a/public/js/connessione.js b/public/js/connessione.js
@@ -36,8 +36,6 @@
   const pendingRequests = new Set();
   socket.on('connect', () => {
     S.syncPending = !OFFLINE;
-    if (S.lostConnection) toast('✓ Riconnesso');
-    S.lostConnection = false;
     S.connected = true;
     socket.emit('hello', { token: S.token, name: S.name, lang: LANG, remind: S.prefs.remind !== false });
   });
@@ -143,8 +141,27 @@
   socket.on('state', ({ room, game, __local }) => {
     // mentre si gioca sul telefono contro il computer, lo stato del server (es. al ricollegamento) non conta
     if (S.localGame && !__local) { hideIntro(); return; }
+    const wasSyncing=S.syncPending,restored=S.lostConnection&&!__local;
     S.syncPending = false;
+    if(!__local)S.lostConnection=false;
     onState(room, game); hideIntro();
+    if(restored)toast(t('Sei di nuovo collegato.'));
+    // Rileggi l'inventario dopo il ripristino: un altro dispositivo può averlo cambiato.
+    if(wasSyncing&&!__local&&!S.chestBusy&&!S.collectionBusy){
+      if(S.modalKind==='chests')chestsModal(true);
+      else if(S.modalKind==='cosmetics')collectionModal(undefined,true);
+    }
+  });
+  let inventoryRefreshTimer=null;
+  socket.on('inventoryChanged',()=>{
+    clearTimeout(inventoryRefreshTimer);
+    const refresh=()=>{
+      if(!S.connected||S.syncPending)return;
+      if(S.chestBusy||S.collectionBusy){inventoryRefreshTimer=setTimeout(refresh,150);return;}
+      if(S.modalKind==='chests')chestsModal(true);
+      else if(S.modalKind==='cosmetics')collectionModal(undefined,true);
+    };
+    inventoryRefreshTimer=setTimeout(refresh,50);
   });
 
   /* ---------- Intro animata all'apertura ---------- */

diff --git a/public/style.css b/public/style.css
@@ -1396,3 +1396,5 @@ body[data-theme="notte"] .inventory-chest{background:#263e32}.letter-gift>.cx-vi
 .music-volume{display:block;margin:16px 0}.music-volume>span{display:flex;justify-content:space-between;gap:12px;font-weight:700}.music-volume input{display:block;width:100%;height:40px;accent-color:#a77925;cursor:pointer}.music-volume output{font-variant-numeric:tabular-nums}
 
 .music-volume input{appearance:none;-webkit-appearance:none;background:transparent;border:0;padding:0}.music-volume input::-webkit-slider-runnable-track{height:6px;background:#718f8055;border-radius:9px}.music-volume input::-webkit-slider-thumb{appearance:none;-webkit-appearance:none;width:24px;height:24px;margin-top:-9px;border:2px solid #8d6828;border-radius:50%;background:#edc96f;box-shadow:0 2px 5px #0003}.music-volume input::-moz-range-track{height:6px;background:#718f8055;border-radius:9px}.music-volume input::-moz-range-thumb{width:20px;height:20px;border:2px solid #8d6828;border-radius:50%;background:#edc96f}.music-volume input:focus-visible{outline:2px solid #a77925;outline-offset:3px}
+
+.toast.equip-confirmation{display:flex;align-items:center;gap:12px;background:#143b2e;border-color:#d6ba78;color:#f6eddb}.equip-confirmation .ui-icon{width:32px;height:32px}.equip-confirmation b,.equip-confirmation small{display:block}.equip-confirmation small{margin-top:3px;font-size:14px}.offline{background:#183f32;border-bottom:1px solid #cfad68;box-shadow:0 2px 8px #0003}body.noanim .offline .spin{animation:none}

diff --git a/public/js/schermate.js b/public/js/schermate.js
@@ -37,7 +37,7 @@
       if (field) { field.value = draft.value; field.focus({preventScroll:true}); if (draft.start != null) field.setSelectionRange(draft.start,draft.end); }
     }
     if ((!S.connected || S.syncPending) && !S.localGame && !S.campaignActive && S.screen !== 'campaign') {
-      app.insertAdjacentHTML('afterbegin', `<div class="offline" role="status"><span class="spin"></span>${t(S.syncPending ? "Ripristino del tavolo in corso." : "Connessione al server.")}<button class="btn small" data-act="reconnect">${t("Riprova")}</button></div>`);
+      app.insertAdjacentHTML('afterbegin', `<div class="offline" role="status" aria-live="polite"><span class="spin" aria-hidden="true"></span>${t(S.lostConnection || S.room ? "Ti stiamo ricollegando, attendi." : "Collegamento in corso, attendi.")}<button class="btn small" data-act="reconnect">${t("Riprova")}</button></div>`);
       const gm = $('.game');
       if (gm) gm.classList.add('offline-lock');
     }
